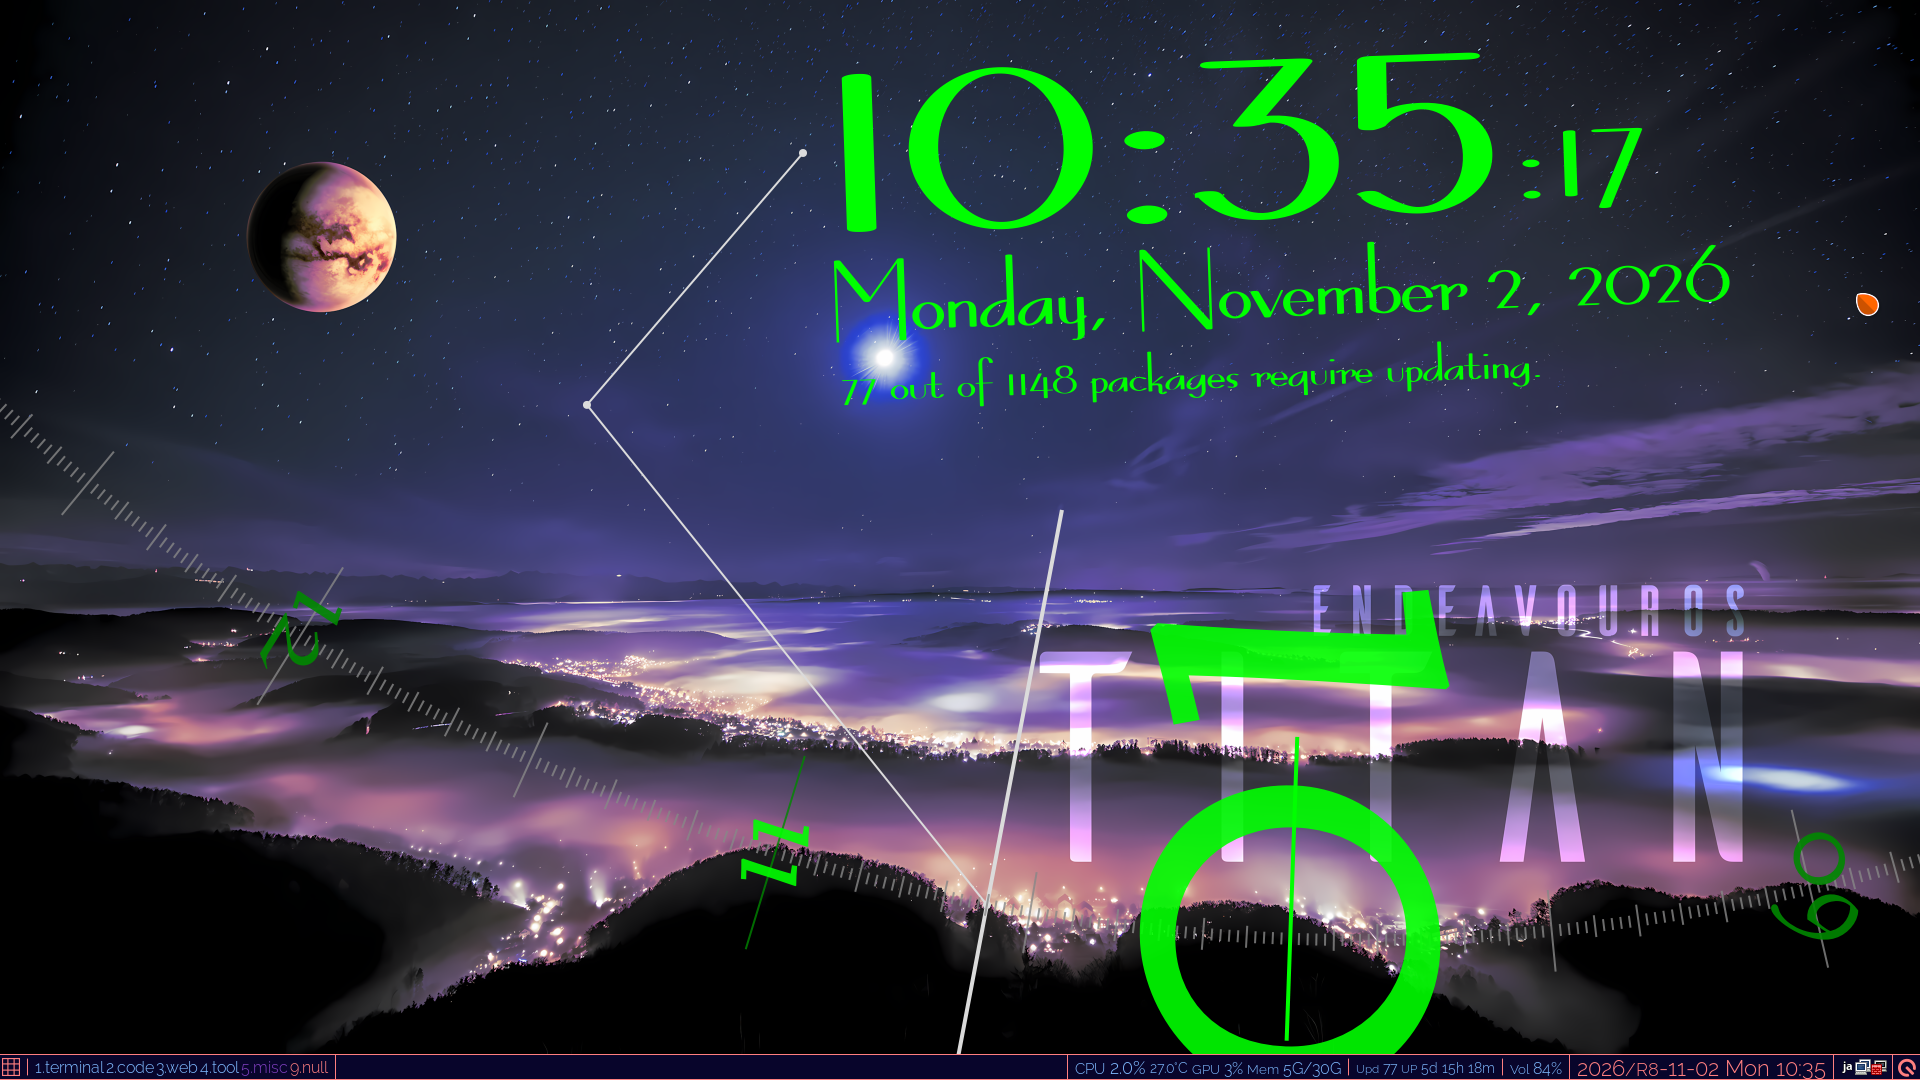
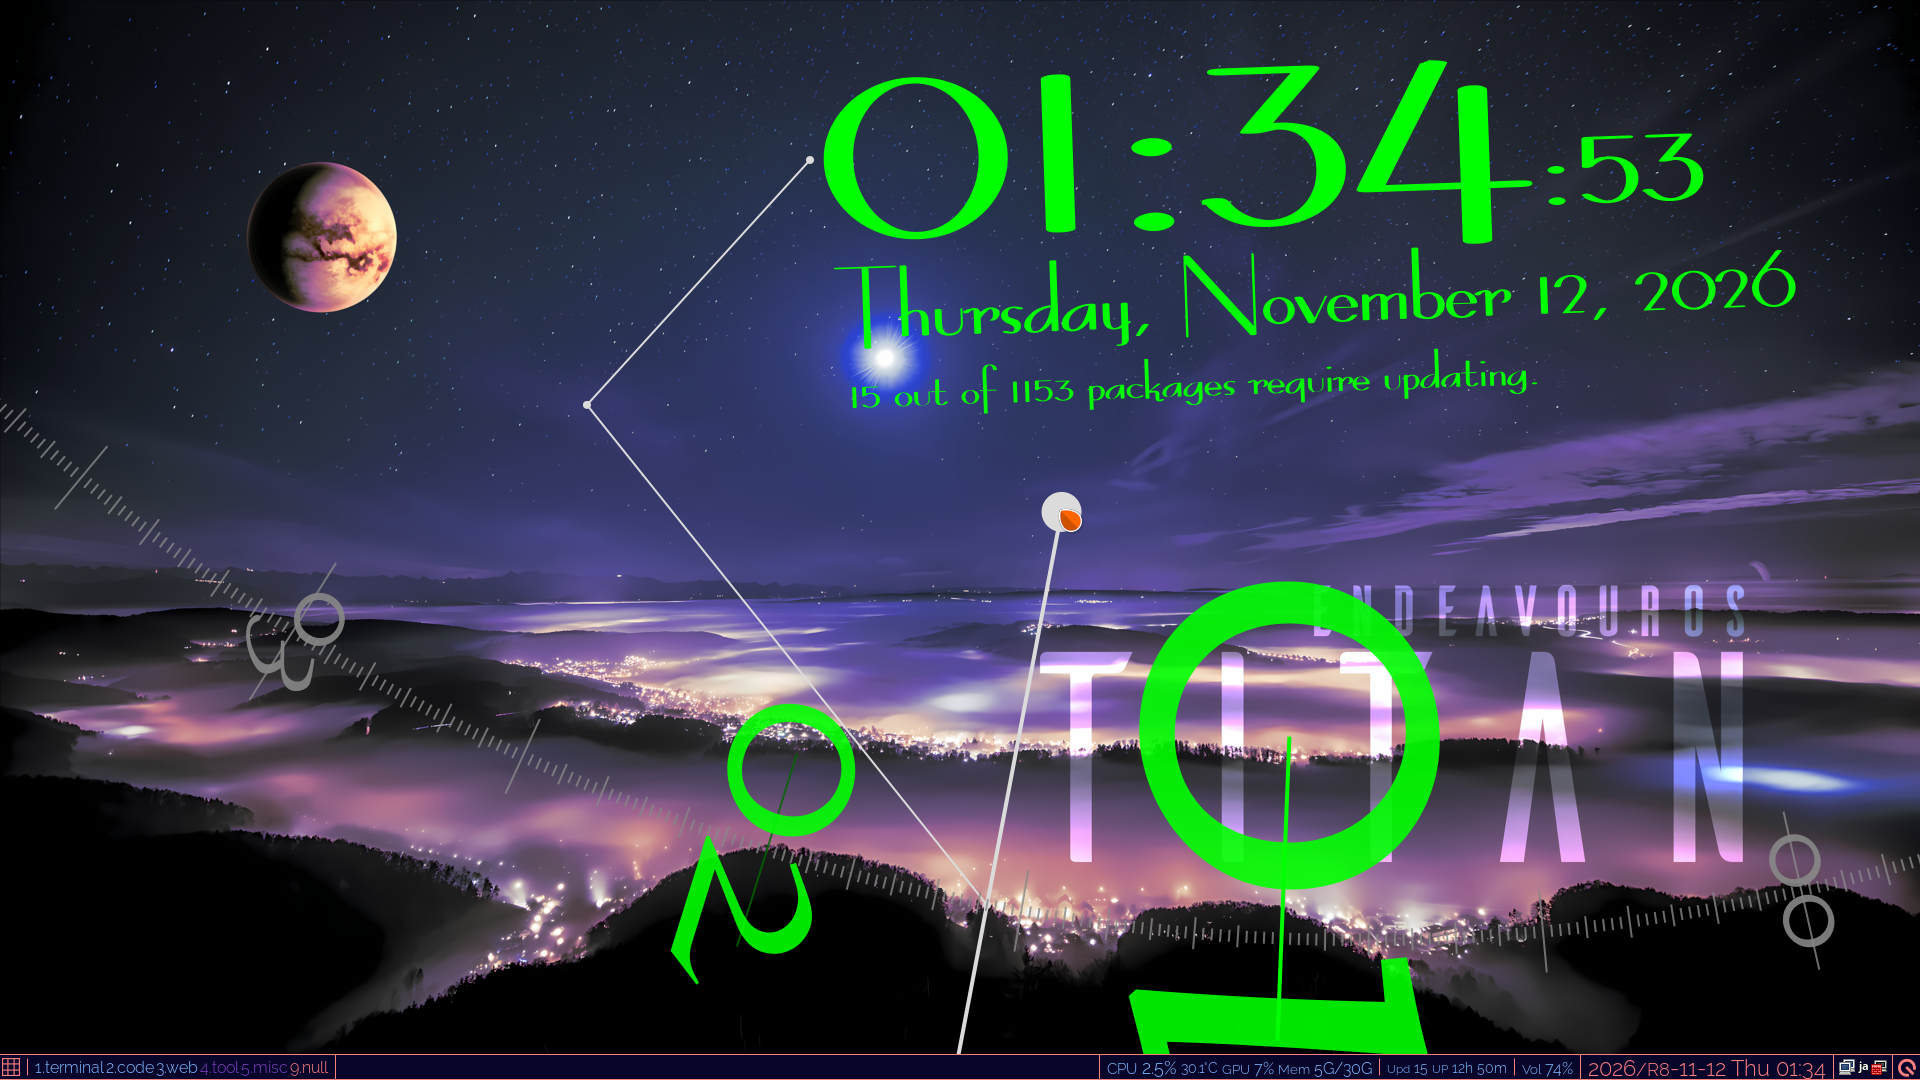
Updates to README.md with screenshots, toggle the display of text information via mouse clicks.

diff --git a/README.md b/README.md
@@ -10,20 +10,16 @@
 Conky theme, a 24-hour clock that uses the entire display.
 It is not the hands of the clock that rotate; **the dial rotates**.
 
-
-### 1.1. Normal mode
+This is the screen that appears when you first launch this Conky theme.
+Note, however, that the fonts used in this theme are highly unlikely to display correctly—for reasons explained later.
 
 <img src="./screenshot/main..01.png" width=500 />
 
-In `./config/config_me.lua` (or [`./config/config_default.lua`][config_default.lua]) at `Info.Display_flag` is `true`, default setting.
-
-
-### 1.2. Very simple mode
+Left-click the white circle in the center of the screen.
+Doing so will result in the view shown in the image below.
+Left-clicking toggles the visibility of information such as the current time and today's date.
 
 <img src="./screenshot/main..02.png" width=500 />
-
-As with the above, `Info.Display_flag` is `false`.  
-(Self-reflection) I’m starting to think that maybe this is fine as it is…
 
 
 ## 2. How to start
@@ -144,7 +140,8 @@ The general processing steps for the 4th and 5th rows:
 - [ ] Information regarding the historical graph for CPU load:  
       The design calls for a graph that follows the circular path of a clock face, extending inward from the 24-hour hand toward the center.
 - [ ] Use *Pywal* to automatically change the color scheme for this theme?
-- [ ] Nothing is decided yet, but perhaps adding some kind of feature triggered by a *mouse hover*?
+- [x] Nothing is decided yet, but perhaps adding some kind of feature triggered by a *mouse hover*?
+      It is unclear whether *mouse hover* events can be detected in Conky/Lua; *mouse clicks*, however, can be detected.
 - [ ] I would like to modify the system so that it can start using only the default configuration file I provide.   
       If a user creates a copy and modifies it, those custom keys and values should take precedence.
 - [ ] Represent 24 hours a day or 365 days a year using an arc.
@@ -170,7 +167,7 @@ The environment I am actually using is as follows.
 In practice, I rely on the Qtile widgets (located on the bottom bar) to keep track of the current time, the number of available package updates, and the CPU load.
 In other words, no issues will arise even if this theme is not displayed.
 
-See also the following—specifically, my "dotfiles":
+See also the following—specifically, my *dotfiles*:
 
 - [dotfiles_ver3_terminal](https://github.com/dollplayer2501/dotfiles_ver3_terminal)
 - [dotfiles_ver3_window-manager](https://github.com/dollplayer2501/dotfiles_ver3_window-manager)
